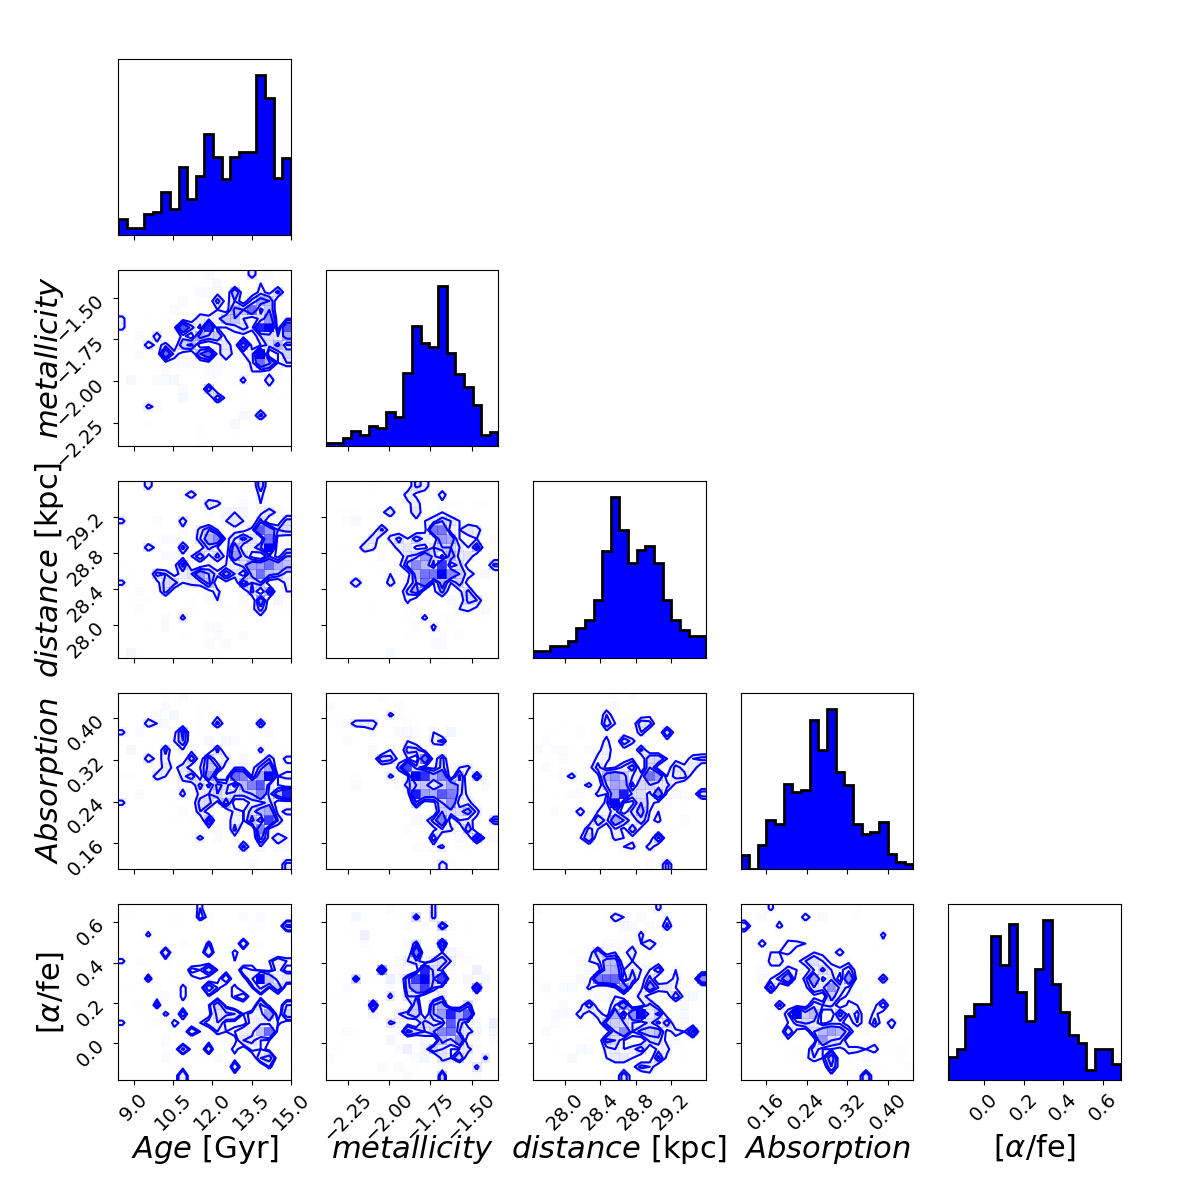
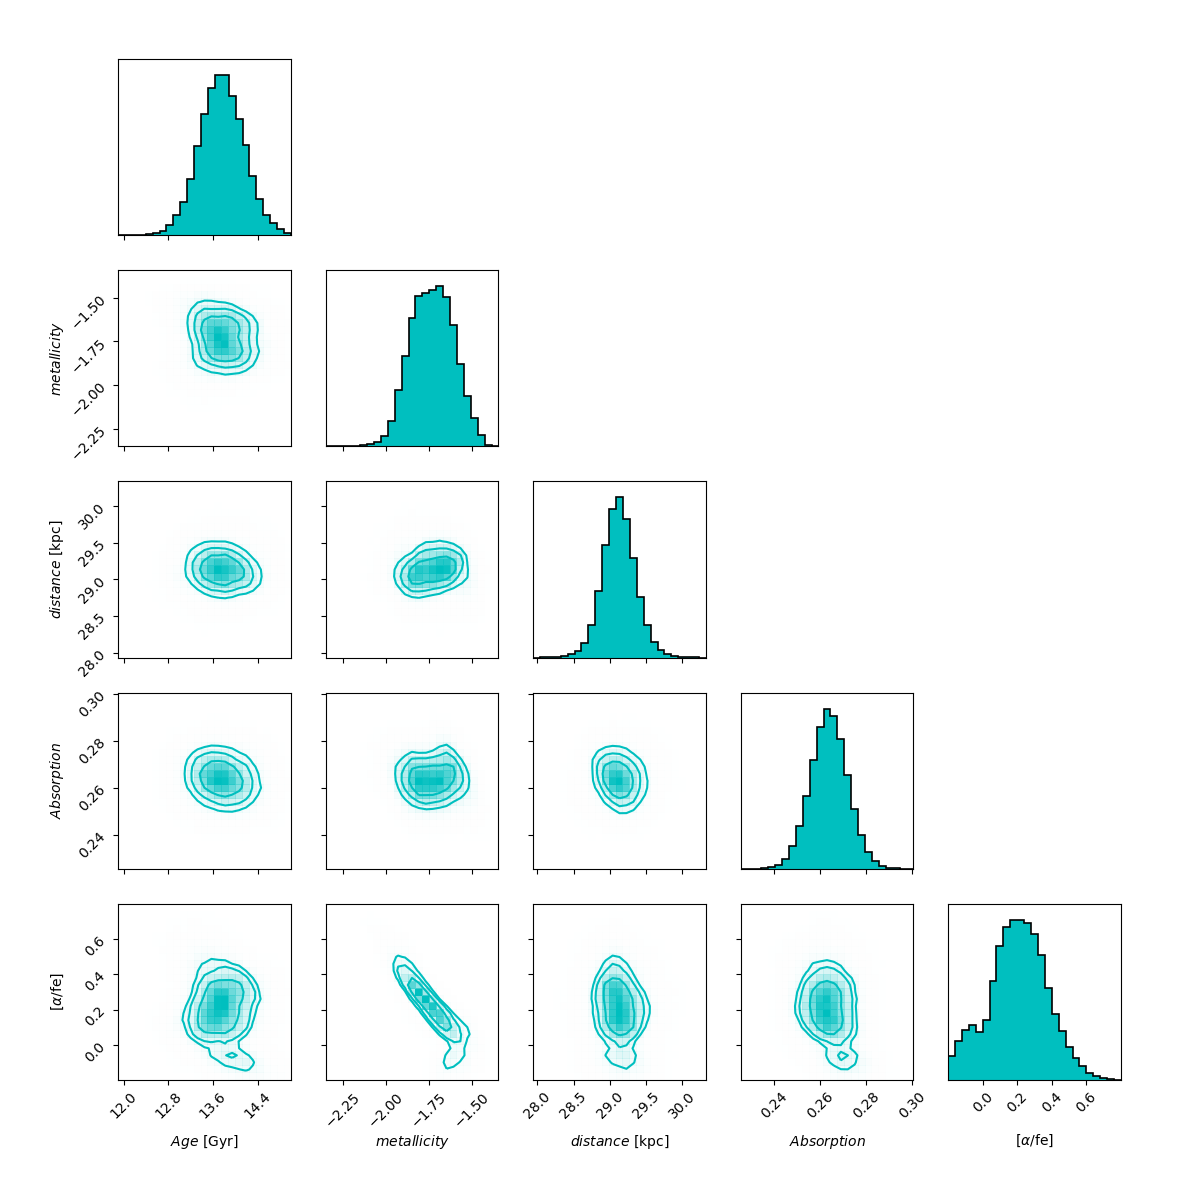
updates

diff --git a/GC/gc_gaia_distance.py b/GC/gc_gaia_distance.py
@@ -1140,7 +1140,7 @@ def lnprior(theta):
 			#~ #flat priors on age, FeH, Av
 		if 9 < age < 10.175 and -2.5 < FeH < 0  and 0.0 < dist and 0 < A1 < 3.0 and -0.2 <= afe <= 0.8:
 			# ~return 0.0
-			print('met: '+str(lnl_me),'dist: '+str(lnl_dm),'abs: '+str(lnl_abs),'afe: '+str(lnl_abu), 'TOTAL = '+str(lnl_me + lnl_dm + lnl_abs + lnl_abu))
+			# ~print('met: '+str(lnl_me),'dist: '+str(lnl_dm),'abs: '+str(lnl_abs),'afe: '+str(lnl_abu), 'TOTAL = '+str(lnl_me + lnl_dm + lnl_abs + lnl_abu))
 			return lnl_me + lnl_dm + lnl_abs + lnl_abu
 			# ~print('met: '+str(lnl_me),'dist: '+str(lnl_dm),'afe: '+str(lnl_abu), 'TOTAL = '+str(lnl_me + lnl_dm + lnl_abu))
 			# ~return lnl_me + lnl_dm + lnl_abu
@@ -1410,8 +1410,8 @@ def way(vgood, cgood, errgood, errgoodv, step = None):
 
 		apmstop = np.where(np.array(cgood)[ici] > top_x-0.05)[0]
 
-		print('bin = '+str(c))
-		print(len(np.array(cgood)[ici]))
+		# ~print('bin = '+str(c))
+		# ~print(len(np.array(cgood)[ici]))
 
 		
 		# ~threshold = 1
@@ -1454,8 +1454,8 @@ def way(vgood, cgood, errgood, errgoodv, step = None):
 		zcol =  np.delete(np.array(cgood)[ici], out)
 		zmagv =  np.delete(np.array(vgood)[ici], out)
 		deb_length = len(zcol)
-		print('first ite')
-		print(len(zcol), med)
+		# ~print('first ite')
+		# ~print(len(zcol), med)
 
 		times=0
 		threshold = 3
@@ -1469,7 +1469,7 @@ def way(vgood, cgood, errgood, errgoodv, step = None):
 			zcol =  np.delete(zcol, out)
 			zmagv =  np.delete(zmagv, out)
 			times=times+1
-			print(len(zcol),med)
+			# ~print(len(zcol),med)
 
 			
 		# ~threshold = 3
@@ -1756,7 +1756,7 @@ T0 = 1
 T1 = 1000
 posnum = 1
 ite = 10000
-nwalkers = 20
+nwalkers = 300
 # ~model = 'mist'
 model = 'dar'
 #~ #----------------
@@ -2135,21 +2135,20 @@ elif model == 'dar':
 	#~ kill
 
 
-	pos = np.random.uniform(low=[Age -0.01, -2.4, distance-1000, 0.01, 0.01], high=[Age +0.01, 0.1, distance+1000, 2.99, 0.78],
-	size=(nwalkers, ndim))
-	# ~if Abs-0.1>0 and distance-2000 >0:
-		# ~pos = np.random.uniform(low=[Age -0.1, metal-0.1, distance-2000, Abs-0.1, afe_init-0.1], high=[Age +0.1, metal+0.1, distance+2000, Abs+0.1, afe_init+0.1],
-		# ~pos = np.random.uniform(low=[Age -0.1, metal-0.1, distance-2000, Abs-0.1, afe_init-0.1], high=[Age +0.1, metal+0.1, distance+2000, Abs+0.1, afe_init+0.1],
-		# ~size=(nwalkers, ndim))
-	# ~elif Abs-0.1 < 0 and distance-2000 >0:
-		# ~pos = np.random.uniform(low=[Age -0.1, metal-0.1, distance-2000, 0.001, afe_init-0.1], high=[Age +0.1, metal+0.1, distance+2000, Abs+0.1,  afe_init+0.1],
-		# ~size=(nwalkers, ndim))
-	# ~elif Abs-0.1>0 and distance-2000 < 0:
-		# ~pos = np.random.uniform(low=[Age -0.1, metal-0.1, 0.001, Abs-0.1,afe_init-0.1], high=[Age +0.1, metal+0.1, distance+2000, Abs+0.1, afe_init+0.1],
-		# ~size=(nwalkers, ndim))
-	# ~else:
-		# ~pos = np.random.uniform(low=[Age -0.1, metal-0.1, 0, 0.001, afe_init-0.1], high=[Age +0.1, metal+0.1, distance+2000, Abs+0.1,  afe_init+0.1],
-		# ~size=(nwalkers, ndim))
+	# ~pos = np.random.uniform(low=[Age -0.01, -2.4, distance-1000, 0.01, 0.01], high=[Age +0.01, 0.1, distance+1000, 2.99, 0.78],
+	# ~size=(nwalkers, ndim))
+	if Abs-0.1>0 and distance-2000 >0:
+		pos = np.random.uniform(low=[Age -0.1, metal-0.1, distance-2000, Abs-0.1, afe_init-0.1], high=[Age +0.1, metal+0.1, distance+2000, Abs+0.1, afe_init+0.1],
+		size=(nwalkers, ndim))
+	elif Abs-0.1 < 0 and distance-2000 >0:
+		pos = np.random.uniform(low=[Age -0.1, metal-0.1, distance-2000, 0.001, afe_init-0.1], high=[Age +0.1, metal+0.1, distance+2000, Abs+0.1,  afe_init+0.1],
+		size=(nwalkers, ndim))
+	elif Abs-0.1>0 and distance-2000 < 0:
+		pos = np.random.uniform(low=[Age -0.1, metal-0.1, 0.001, Abs-0.1,afe_init-0.1], high=[Age +0.1, metal+0.1, distance+2000, Abs+0.1, afe_init+0.1],
+		size=(nwalkers, ndim))
+	else:
+		pos = np.random.uniform(low=[Age -0.1, metal-0.1, 0, 0.001, afe_init-0.1], high=[Age +0.1, metal+0.1, distance+2000, Abs+0.1,  afe_init+0.1],
+		size=(nwalkers, ndim))
 
 
 # ~kill
@@ -2446,10 +2445,10 @@ plt.scatter(ccenter_rgb, vcenter_rgb , marker='o', s=30, color='r', label='selec
 	#~ else:
 		#~ plt.fill_between(np.linspace(-0.5,3), bingood[nempty][ii], bingood[nempty][ii+1], color='darkblue', alpha=0.4)
 plt.axvline(top_x-0.05)
-# ~plt.xlim(-0.5,3)
-# ~plt.ylim(27,10)
-plt.xlim(0.4,1.2)
-plt.ylim(22,16)
+plt.xlim(-0.5,3)
+plt.ylim(27,10)
+# ~plt.xlim(0.4,1.2)
+# ~plt.ylim(22,16)
 plt.tick_params(labelsize=16)
 # ~lgnd = plt.legend(loc='upper right', fontsize = 24)
 # ~lgnd.legendHandles[0]._sizes = [286]
@@ -2554,7 +2553,7 @@ with Pool() as pool:
 
 	for i, (results) in enumerate(zip(sampler.sample(pos, iterations=ite))):
 		print(i)
-		if (i+1) % 100 == 0:
+		if (i+1) % 200 == 0:
 			ind = int((i+1)/1)
 	# 		with open('test2_'+str(clus_nb)+'_'+str(model)+'.txt', 'a+') as fid_file:
 			print("first phase is at {0:.1f}%\n".format(100 * float(i) /ite))

diff --git a/GC/analysis.py b/GC/analysis.py
@@ -434,6 +434,14 @@ if version == '16':
 	garr = [3,4,8,12,14,15,17,19,20,24,28,32,34,42,43,46,48,51,52,54,59,61]
 	model = 'dar'
 	#~ garr =
+if version == '17':
+	ndim = 5
+	nwalkers = 300
+	ntemps = 1
+	print(ntemps)
+	garr = [3,4,8,12,14,15,17,19,20,24,28,32,34,42,43,46,48,51,52,54,59,61]
+	model = 'dar'
+	#~ garr =
 if version == '0':
 	ndim = 4 
 	nwalkers = 300	
@@ -980,7 +988,7 @@ for cn in [0,1,2,3,22,27,53]:
 	plt.title(clus_nb+' age = '+str(Age_mean))
 	# ~plt.title('IC4499', fontsize = 16)
 	# ~plt.subplots_adjust(bottom=0.13)
-	# ~plt.savefig('/home/david/codes/Analysis/GC/plots/analysis/fit_'+clus_nb+'.png')
+	# ~plt.savefig('/home/david/codes/Analysis/GC/plots/analysis/fit_'+clus_nb+'_'+ version +'.png')
 	plt.show()
 	plt.close()
 	# ~kill
